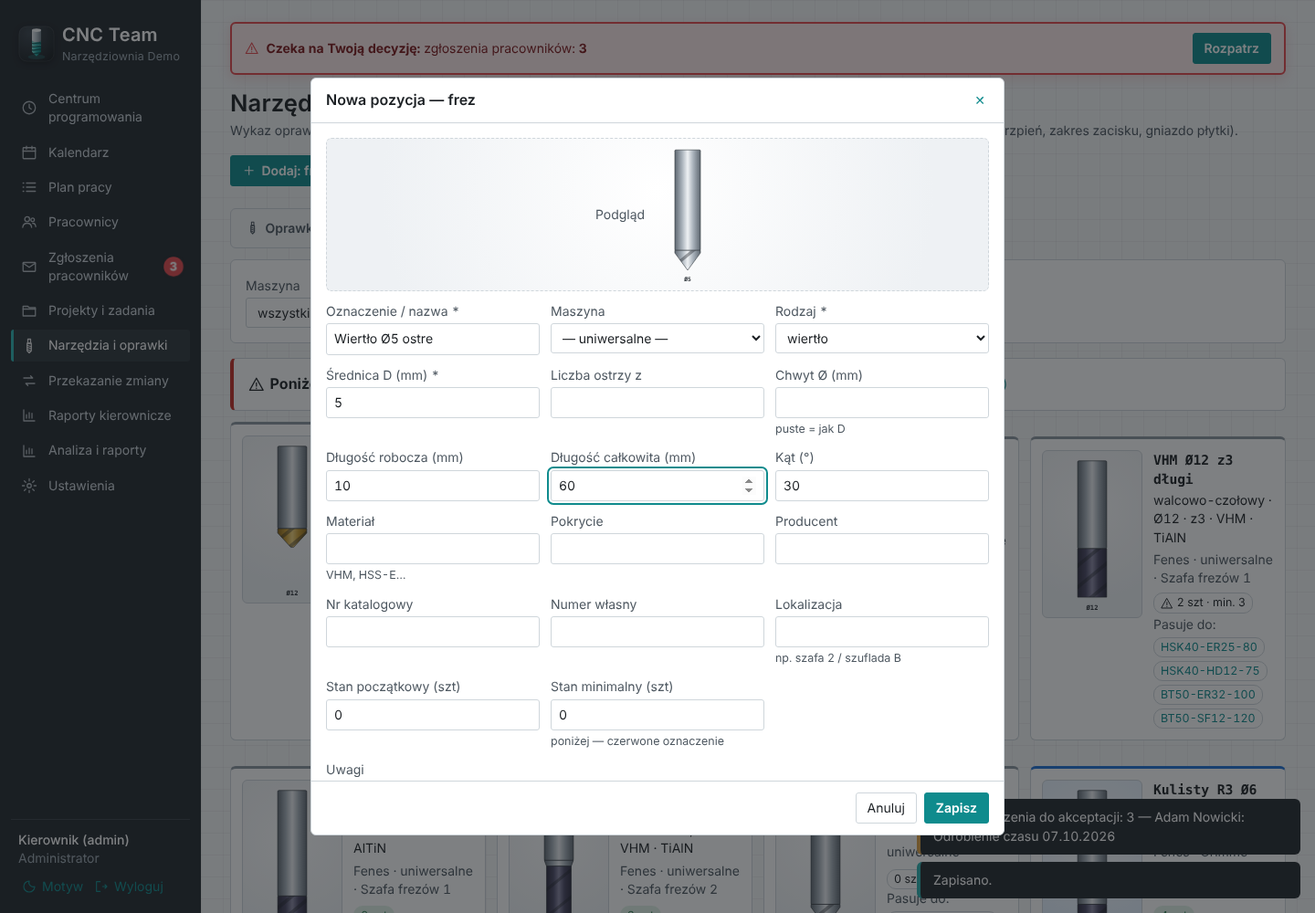
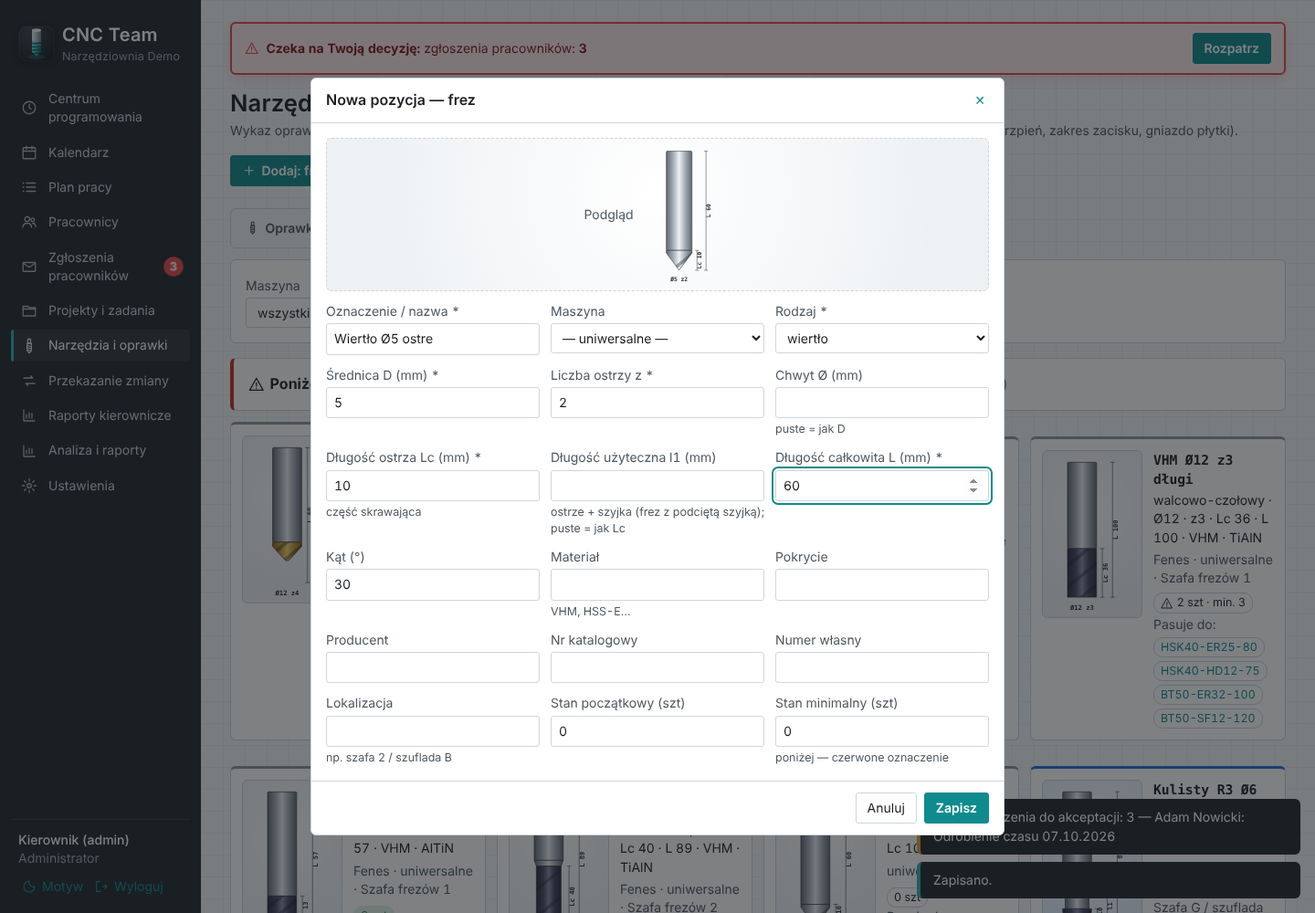
Frezy: liczba ostrzy, długość ostrza i całkowita obowiązkowe, długość z szyjką, wymiary na rysunku (0.15.1)
Claude-Session: https://claude.ai/code/session_01Mgo9RDb6yKEqWF3PSmGbbJ

diff --git a/public/views-tools.js b/public/views-tools.js
@@ -191,12 +191,18 @@ function drawMill(t, { w = 80 } = {}) {
   const D = Number(p.D) || 10, sh = Number(p.shank) || D;
   const k = 40 / Math.max(D, sh);
   const wd = D * k, ws = sh * k, cx = 40;
-  const Ltot = Number(p.L) || D * 6, Lc = Math.min(Number(p.Lc) || D * 2, Ltot * 0.8);
-  const total = 186, lc = Math.max(28, Math.min(total * 0.62, (Lc / Ltot) * total));
-  const yTip = 194, yCut = yTip - lc, yShank = 6;
+  const Ltot = Number(p.L) || D * 6, Lc = Math.min(Number(p.Lc) || Math.min(D * 2, Ltot * 0.3), Ltot * 0.8);
+  const total = 186, sc = total / Ltot;
+  const lc = Math.max(20, Math.min(total * 0.62, Lc * sc));
+  const neck = p.Lc && p.reach && Number(p.reach) > Number(p.Lc) ? // szyjka tylko gdy l1 > rzeczywiste Lc
+    Math.max(6, Math.min(total * 0.8 - lc, (p.reach - Lc) * sc)) : 0;
+  const yTip = 194, yCut = yTip - lc, yNeck = yCut - neck, yShank = yTip - total;
+  const wn = wd * 0.82; // szyjka — podcięta poniżej średnicy ostrza
   const parts = [];
-  parts.push(`<rect x="${cx - ws / 2}" y="${yShank}" width="${ws}" height="${yCut - yShank - (wd !== ws ? 8 : 0)}" rx="1.5" fill="url(#${id}s)" stroke="#2a3036" stroke-width=".8"/>`);
-  if (wd !== ws) parts.push(`<path d="M${cx - ws / 2} ${yCut - 8} L${cx + ws / 2} ${yCut - 8} L${cx + wd / 2} ${yCut} L${cx - wd / 2} ${yCut} Z" fill="url(#${id}s)" stroke="#2a3036" stroke-width=".8"/>`);
+  const topW = neck ? wn : wd;
+  parts.push(`<rect x="${cx - ws / 2}" y="${yShank}" width="${ws}" height="${yNeck - yShank - (topW !== ws ? 8 : 0)}" rx="1.5" fill="url(#${id}s)" stroke="#2a3036" stroke-width=".8"/>`);
+  if (topW !== ws) parts.push(`<path d="M${cx - ws / 2} ${yNeck - 8} L${cx + ws / 2} ${yNeck - 8} L${cx + topW / 2} ${yNeck} L${cx - topW / 2} ${yNeck} Z" fill="url(#${id}s)" stroke="#2a3036" stroke-width=".8"/>`);
+  if (neck) parts.push(`<rect x="${cx - wn / 2}" y="${yNeck}" width="${wn}" height="${neck}" fill="url(#${id}s)" stroke="#2a3036" stroke-width=".8"/>`);
   const r = p.type === 'kulisty' ? wd / 2 : p.type === 'torusowy' ? Math.max(0.5, Math.min(wd / 2 - 0.5, Math.max(1, (Number(p.r) || D * 0.1) * k))) : 0;
   let end;
   const L = cx - wd / 2, R = cx + wd / 2;
@@ -219,10 +225,18 @@ function drawMill(t, { w = 80 } = {}) {
   }
   parts.push(`<g clip-path="url(#${id}c)">${flutes.join('')}</g>`);
   const shankTone = coatTone('');
-  return `<svg class="tool-svg" viewBox="0 0 80 214" width="${w}" role="img" aria-label="${esc(`${MILL_LABEL[p.type] || 'Frez'} Ø${mm(D)}`)}">
+  // linie wymiarowe: Lc (ostrze), l1 (z szyjką), L (całkowita)
+  const dim = (x, y1, y2, label) => `<g class="tool-svg-dimline"><path d="M${x - 3} ${y1} h6 M${x - 3} ${y2} h6 M${x} ${y1} V${y2}" stroke="#2a3036" stroke-width=".7" fill="none"/>
+    <text transform="translate(${x + 7} ${(y1 + y2) / 2}) rotate(-90)" text-anchor="middle" class="tool-svg-dim">${esc(label)}</text></g>`;
+  const dims = [];
+  if (p.Lc) dims.push(dim(68, yCut, yTip, `Lc ${mm(p.Lc)}`));
+  if (neck) dims.push(dim(68 + (p.Lc ? 14 : 0), yNeck, yTip, `l1 ${mm(p.reach)}`));
+  if (p.L) dims.push(dim(68 + (p.Lc ? 14 : 0) + (neck ? 14 : 0), yShank, yTip, `L ${mm(p.L)}`));
+  const vw = 80 + (p.Lc ? 14 : 0) + (neck ? 14 : 0) + (p.L ? 14 : 0);
+  return `<svg class="tool-svg" viewBox="0 0 ${vw} 214" width="${Math.round(w * vw / 80)}" role="img" aria-label="${esc(`${MILL_LABEL[p.type] || 'Frez'} Ø${mm(D)}${p.z ? ` z${mm(p.z)}` : ''}${p.Lc ? `, ostrze ${mm(p.Lc)} mm` : ''}${p.L ? `, długość ${mm(p.L)} mm` : ''}`)}">
     <defs>${metalDefs(`${id}s`, shankTone)}${metalDefs(`${id}k`, coatTone(p.coating))}</defs>
-    ${parts.join('')}
-    <text x="40" y="211" text-anchor="middle" class="tool-svg-dim">Ø${esc(mm(D))}${p.type === 'torusowy' && p.r ? ` R${esc(mm(p.r))}` : p.type === 'kulisty' ? ` R${esc(mm(D / 2))}` : ''}</text>
+    ${parts.join('')}${dims.join('')}
+    <text x="40" y="211" text-anchor="middle" class="tool-svg-dim">Ø${esc(mm(D))}${p.z ? ` z${esc(mm(p.z))}` : ''}${p.type === 'torusowy' && p.r ? ` R${esc(mm(p.r))}` : p.type === 'kulisty' ? ` R${esc(mm(D / 2))}` : ''}</text>
   </svg>`;
 }
 
@@ -241,13 +255,13 @@ function toolFacts(t) {
     add('Tulejka / nakrętka', p.collet); add('Wysięg od czoła wrzeciona', p.gauge, ' mm'); add('Maks. obroty', p.max_rpm != null ? Number(p.max_rpm).toLocaleString('pl-PL') : null, ' obr/min');
   } else if (t.kind === 'glowica') {
     add('Średnica D', p.D, ' mm'); add('Liczba ostrzy z', p.z); add('Gniazdo płytki', p.insert_code);
-    add('Kąt przystawienia', p.lead, '°'); add('Maks. ap', p.ap_max, ' mm'); add('Trzpień', p.arbor != null ? `Ø${mm(p.arbor)}` : null, ' mm'); add('Chwyt walcowy', p.shank != null ? `Ø${mm(p.shank)}` : null, ' mm');
+    add('Kąt przystawienia', p.lead, '°'); add('Maks. ap', p.ap_max, ' mm'); add('Wysokość H', p.H, ' mm'); add('Trzpień', p.arbor != null ? `Ø${mm(p.arbor)}` : null, ' mm'); add('Chwyt walcowy', p.shank != null ? `Ø${mm(p.shank)}` : null, ' mm');
   } else if (t.kind === 'plytka') {
     add('Kształt', SHAPE_LABEL[p.shape] || p.shape); add('Wielkość', p.size, ' mm'); add('Promień naroża', p.radius, ' mm'); add('Liczba krawędzi', p.edges);
     add('Gatunek', p.grade); add('Pokrycie', p.coating); add('Materiały', p.materials);
   } else {
     add('Rodzaj', MILL_LABEL[p.type] || p.type); add('Średnica D', p.D, ' mm'); add('Liczba ostrzy z', p.z); add('Chwyt', p.shank != null ? `Ø${mm(p.shank)}` : null, ' mm');
-    add('Długość robocza', p.Lc, ' mm'); add('Długość całkowita', p.L, ' mm'); add('Promień naroża', p.r, ' mm'); add('Kąt', p.angle, '°');
+    add('Długość ostrza Lc', p.Lc, ' mm'); add('Długość użyteczna l1', p.reach, ' mm'); add('Długość całkowita L', p.L, ' mm'); add('Promień naroża', p.r, ' mm'); add('Kąt', p.angle, '°');
     add('Materiał', p.material); add('Pokrycie', p.coating);
   }
   return f;
@@ -257,7 +271,7 @@ function toolKeyLine(t) {
   if (t.kind === 'oprawka') return [p.interface, HOLDER_LABEL[p.type], p.type === 'trzpieniowa' ? `trzpień Ø${mm(p.arbor)}` : p.clamp_min != null ? `Ø${mm(p.clamp_min)}${p.clamp_max && p.clamp_max !== p.clamp_min ? `–${mm(p.clamp_max)}` : ''}` : null].filter(Boolean).join(' · ');
   if (t.kind === 'glowica') return [`Ø${mm(p.D)}`, `z${mm(p.z)}`, p.insert_code, p.lead && p.lead !== 90 ? `${mm(p.lead)}°` : null].filter(Boolean).join(' · ');
   if (t.kind === 'plytka') return [p.grade, p.coating, p.materials ? `materiały ${p.materials}` : null].filter(Boolean).join(' · ');
-  return [MILL_LABEL[p.type], `Ø${mm(p.D)}`, p.z ? `z${mm(p.z)}` : null, p.material, p.coating].filter(Boolean).join(' · ');
+  return [MILL_LABEL[p.type], `Ø${mm(p.D)}`, p.z ? `z${mm(p.z)}` : null, p.Lc ? `Lc ${mm(p.Lc)}` : null, p.reach ? `l1 ${mm(p.reach)}` : null, p.L ? `L ${mm(p.L)}` : null, p.material, p.coating].filter(Boolean).join(' · ');
 }
 function machineShort(id) {
   const m = S.boot.machines.find(x => x.id === id);
@@ -361,12 +375,11 @@ function toolDetail(t, byId) {
   act('edit', () => toolForm(t.kind, t));
   act('in', () => stockForm(t, 1));
   act('out', () => stockForm(t, -1));
-  act('off', () => confirmReason(`Wycofać z użytku: ${t.name}?`, 'Pozycja zniknie z wykazu dla zespołu (zostaje w historii i w widoku „pokaż wycofane”).', (reason) => post(`/tools/${t.id}`, { ...toolBody(t), active: false, reason }, undefined, 'PUT'), 'Wycofaj'));
-  act('on', () => confirmReason(`Przywrócić do użytku: ${t.name}?`, 'Pozycja wróci do wykazu widocznego dla zespołu.', (reason) => post(`/tools/${t.id}`, { ...toolBody(t), active: true, reason }, undefined, 'PUT'), 'Przywróć'));
+  act('off', () => confirmReason(`Wycofać z użytku: ${t.name}?`, 'Pozycja zniknie z wykazu dla zespołu (zostaje w historii i w widoku „pokaż wycofane”).', (reason) => post(`/tools/${t.id}`, { active: false, reason }, undefined, 'PUT'), 'Wycofaj'));
+  act('on', () => confirmReason(`Przywrócić do użytku: ${t.name}?`, 'Pozycja wróci do wykazu widocznego dla zespołu.', (reason) => post(`/tools/${t.id}`, { active: true, reason }, undefined, 'PUT'), 'Przywróć'));
   dlg.showModal();
 }
 
-const toolBody = (t) => ({ name: t.name, code: t.code, manufacturer: t.manufacturer, catalog_no: t.catalog_no, machine_id: t.machine_id, params: t.params, min_qty: t.min_qty, location: t.location, note: t.note });
 
 function stockForm(t, sign) {
   openForm({
@@ -400,7 +413,7 @@ function toolForm(kind, t = null) {
   } else if (kind === 'glowica') {
     params = [num('D', 'Średnica D (mm)', { required: true }), num('z', 'Liczba ostrzy z', { required: true }),
       txt('insert_code', 'Gniazdo płytki', { help: 'początek oznaczenia płytki, np. APMT1604 — po nim wykaz dobiera płytki' }),
-      num('lead', 'Kąt przystawienia (°)', { help: '90 — prostokątna, 45 — do planowania' }), num('ap_max', 'Maks. ap (mm)'),
+      num('lead', 'Kąt przystawienia (°)', { help: '90 — prostokątna, 45 — do planowania' }), num('ap_max', 'Maks. ap (mm)'), num('H', 'Wysokość głowicy H (mm)'),
       num('arbor', 'Trzpień Ø (mm)', { help: 'głowica nasadzana — dobiera oprawkę trzpieniową' }), num('shank', 'Chwyt walcowy Ø (mm)', { help: 'głowica z chwytem — dobiera oprawkę zaciskową' })];
   } else if (kind === 'plytka') {
     params = [{ name: 'p_shape', label: 'Kształt (ISO)', type: 'select', required: true, value: p.shape || '', options: Object.entries(SHAPE_LABEL) },
@@ -408,8 +421,10 @@ function toolForm(kind, t = null) {
       txt('grade', 'Gatunek'), txt('coating', 'Pokrycie', { help: 'np. TiAlN, TiN, PVD' }), txt('materials', 'Materiały', { help: 'P / M / K / N / S / H' })];
   } else {
     params = [{ name: 'p_type', label: 'Rodzaj', type: 'select', required: true, value: p.type || '', options: Object.entries(MILL_LABEL) },
-      num('D', 'Średnica D (mm)', { required: true }), num('z', 'Liczba ostrzy z'), num('shank', 'Chwyt Ø (mm)', { help: 'puste = jak D' }),
-      num('Lc', 'Długość robocza (mm)'), num('L', 'Długość całkowita (mm)'),
+      num('D', 'Średnica D (mm)', { required: true }), num('z', 'Liczba ostrzy z', { required: true }), num('shank', 'Chwyt Ø (mm)', { help: 'puste = jak D' }),
+      num('Lc', 'Długość ostrza Lc (mm)', { required: true, show: v => v.p_type !== 'fazownik', help: 'część skrawająca' }),
+      num('reach', 'Długość użyteczna l1 (mm)', { show: v => v.p_type !== 'fazownik', help: 'ostrze + szyjka (frez z podciętą szyjką); puste = jak Lc' }),
+      num('L', 'Długość całkowita L (mm)', { required: true }),
       num('r', 'Promień naroża r (mm)', { show: v => v.p_type === 'torusowy' }), num('angle', 'Kąt (°)', { show: v => v.p_type === 'fazownik' || v.p_type === 'wiertlo' }),
       txt('material', 'Materiał', { help: 'VHM, HSS-E…' }), txt('coating', 'Pokrycie')];
   }

diff --git a/test/tools.test.js b/test/tools.test.js
@@ -20,9 +20,9 @@ function world() {
     head25: add('glowica', 'Frez Ø25 chwyt 20', null, { D: 25, z: 3, shank: 20, insert_code: 'APMT 1135' }),
     apmt16: add('plytka', 'APMT1604PDER-M2', null, { shape: 'A', size: 16 }, { qty: 30, min_qty: 20 }),
     apmt11: add('plytka', 'apmt1135pder', null, { shape: 'A', size: 11 }, { qty: 5, min_qty: 20 }),
-    vhm6: add('frez', 'VHM Ø6', null, { type: 'walcowo-czolowy', D: 6 }),
-    ball6h: add('frez', 'Kulisty Ø6 (Hartford)', H, { type: 'kulisty', D: 6, shank: 6 }),
-    big25: add('frez', 'VHM Ø25', null, { type: 'walcowo-czolowy', D: 25 }),
+    vhm6: add('frez', 'VHM Ø6', null, { type: 'walcowo-czolowy', D: 6, z: 4, Lc: 13, L: 57 }),
+    ball6h: add('frez', 'Kulisty Ø6 (Hartford)', H, { type: 'kulisty', D: 6, z: 2, shank: 6, Lc: 10, L: 60 }),
+    big25: add('frez', 'VHM Ø25', null, { type: 'walcowo-czolowy', D: 25, z: 4, Lc: 40, L: 120 }),
   };
   return { ...w, ids };
 }
@@ -50,12 +50,12 @@ test('narzędzia: walidacja parametrów według rodzaju', () => {
   throwsStatus(assert, () => Tools.saveTool(w.db, w.admin, { kind: 'glowica', name: 'x', params: { D: 50 } }), 400, /ostrzy/);
   throwsStatus(assert, () => Tools.saveTool(w.db, w.admin, { kind: 'plytka', name: 'x', params: { shape: 'Q', size: 10 } }), 400);
   throwsStatus(assert, () => Tools.saveTool(w.db, w.admin, { kind: 'frez', name: 'x', params: { type: 'kulisty', D: -2 } }), 400, /Średnica/);
-  throwsStatus(assert, () => Tools.saveTool(w.db, w.admin, { kind: 'frez', name: 'x', machine_id: 'M-NIEMA', params: { type: 'kulisty', D: 6 } }), 400, /maszyna/i);
+  throwsStatus(assert, () => Tools.saveTool(w.db, w.admin, { kind: 'frez', name: 'x', machine_id: 'M-NIEMA', params: { type: 'kulisty', D: 6, z: 2, Lc: 10, L: 60 } }), 400, /maszyna/i);
   // rodzaju nie da się zmienić edycją
   Tools.saveTool(w.db, w.admin, { kind: 'frez', name: 'APMT1604PDER-M2', params: { shape: 'A', size: 16 } }, w.ids.apmt16);
   assert.equal(w.db.get('SELECT kind FROM tools WHERE id=?', w.ids.apmt16).kind, 'plytka');
   // przecinek dziesiętny
-  const id = Tools.saveTool(w.db, w.admin, { kind: 'frez', name: 'Wiertło 8,5', params: { type: 'wiertlo', D: '8,5', angle: 140 } }).id;
+  const id = Tools.saveTool(w.db, w.admin, { kind: 'frez', name: 'Wiertło 8,5', params: { type: 'wiertlo', D: '8,5', angle: 140, z: 2, Lc: '40', L: 89 } }).id;
   assert.equal(JSON.parse(w.db.get('SELECT params FROM tools WHERE id=?', id).params).D, 8.5);
 });
 
@@ -73,11 +73,34 @@ test('narzędzia: edycja częściowa nie kasuje pól; oprawka zgodna z wrzecione
   assert.equal(fitNames(t['Kulisty Ø6 (Hartford)']).includes('HSK-A40 ER16'), false);
   throwsStatus(assert, () => Tools.saveTool(w.db, w.admin, { kind: 'glowica', name: 'x', params: { D: 50, z: 2.5 } }), 400, /całkowita/);
   throwsStatus(assert, () => Tools.saveTool(w.db, w.admin, { active: 'false' }, w.ids.vhm6), 400, /aktywne/);
-  throwsStatus(assert, () => Tools.saveTool(w.db, w.admin, { kind: 'frez', name: 'x', params: { type: 'torusowy', D: 6, r: 4 } }), 400, /połowa/);
+  throwsStatus(assert, () => Tools.saveTool(w.db, w.admin, { kind: 'frez', name: 'x', params: { type: 'torusowy', D: 6, r: 4, z: 4, Lc: 12, L: 57 } }), 400, /połowa/);
   // parametry nieużywane przez wybrany rodzaj nie są zapisywane (np. promień przy frezie walcowo-czołowym)
-  const id = Tools.saveTool(w.db, w.admin, { kind: 'frez', name: 'y', params: { type: 'walcowo-czolowy', D: 6, r: 1, angle: 90 } }).id;
+  const id = Tools.saveTool(w.db, w.admin, { kind: 'frez', name: 'y', params: { type: 'walcowo-czolowy', D: 6, r: 1, angle: 90, z: 4, Lc: 12, L: 57 } }).id;
   const pr = JSON.parse(w.db.get('SELECT params FROM tools WHERE id=?', id).params);
   assert.equal(pr.r, null); assert.equal(pr.angle, null);
+});
+
+test('narzędzia: frez definiują liczba ostrzy, długość ostrza i długość całkowita (obowiązkowe), długość użyteczna z szyjką', () => {
+  const w = world();
+  const f = (params) => () => Tools.saveTool(w.db, w.admin, { kind: 'frez', name: 'F', params: { type: 'walcowo-czolowy', D: 8, ...params } });
+  throwsStatus(assert, f({ Lc: 16, L: 63 }), 400, /ostrzy/);
+  throwsStatus(assert, f({ z: 4, L: 63 }), 400, /Długość ostrza/);
+  throwsStatus(assert, f({ z: 4, Lc: 16 }), 400, /Długość całkowita/);
+  throwsStatus(assert, f({ z: 4, Lc: 70, L: 63 }), 400, /większa niż długość całkowita/);
+  throwsStatus(assert, f({ z: 4, Lc: 16, reach: 12, L: 63 }), 400, /krótsza/);
+  throwsStatus(assert, f({ z: 4, Lc: 16, reach: 70, L: 63 }), 400, /użyteczna nie może być większa/);
+  const id = f({ z: 4, Lc: 16, reach: 40, L: 100 })().id;
+  const pr = JSON.parse(w.db.get('SELECT params FROM tools WHERE id=?', id).params);
+  assert.deepEqual([pr.z, pr.Lc, pr.reach, pr.L], [4, 16, 40, 100]);
+  // pozycja zapisana przed wprowadzeniem obowiązkowych długości: wycofanie / przywrócenie / stan działają bez uzupełniania parametrów
+  const now = new Date().toISOString();
+  const old = Number(w.db.run(`INSERT INTO tools(kind,name,params,qty,min_qty,active,created_at,updated_at) VALUES ('frez','stary','{"type":"walcowo-czolowy","D":6}',1,0,1,?,?)`, now, now).lastInsertRowid);
+  Tools.saveTool(w.db, w.admin, { active: false, reason: 'zużyty' }, old);
+  Tools.saveTool(w.db, w.admin, { active: true, reason: 'pomyłka' }, old);
+  Tools.adjustStock(w.db, w.admin, old, { delta: 1, reason: 'zwrot' });
+  throwsStatus(assert, () => Tools.saveTool(w.db, w.admin, { params: { type: 'walcowo-czolowy', D: 6 } }, old), 400, /ostrzy/);
+  // fazownik — długość ostrza nieobowiązkowa
+  Tools.saveTool(w.db, w.admin, { kind: 'frez', name: 'Faz', params: { type: 'fazownik', D: 10, z: 4, L: 60, angle: 90 } });
 });
 
 test('narzędzia: przyjęcie / wydanie z powodem w historii, stan nie ujemny, wycofanie wymaga powodu', () => {
@@ -128,7 +151,7 @@ test('narzędzia: programista i przełożony tylko odczyt (403 na zapis), gość
     return call;
   };
   try {
-    const newTool = { kind: 'frez', name: 'X', params: { type: 'kulisty', D: 4 } };
+    const newTool = { kind: 'frez', name: 'X', params: { type: 'kulisty', D: 4, z: 2, Lc: 8, L: 50 } };
     for (const login of ['jan', 'szef']) {
       const c = await client(login);
       const r = await c('GET', '/tools?all=1');
@@ -136,7 +159,7 @@ test('narzędzia: programista i przełożony tylko odczyt (403 na zapis), gość
       assert.ok(r.data.length > 5);
       assert.equal(r.data.some(x => x.id === w.ids.big25), false, `${login}: wycofane niewidoczne`);
       assert.equal((await c('POST', '/tools', newTool)).status, 403, login);
-      assert.equal((await c('PUT', `/tools/${w.ids.vhm6}`, { name: 'Y', params: { type: 'kulisty', D: 4 } })).status, 403, login);
+      assert.equal((await c('PUT', `/tools/${w.ids.vhm6}`, { name: 'Y', params: { type: 'kulisty', D: 4, z: 2, Lc: 8, L: 50 } })).status, 403, login);
       assert.equal((await c('POST', `/tools/${w.ids.vhm6}/stock`, { delta: 5, reason: 'x' })).status, 403, login);
     }
     const g = await client('klient');

diff --git a/server/domain/tools.js b/server/domain/tools.js
@@ -37,6 +37,7 @@ function normParams(kind, p = {}) {
     D: num(p.D, 'Średnica D (mm)', { min: 8, max: 400, optional: false }), z: num(p.z, 'Liczba ostrzy z', { min: 1, max: 30, optional: false, int: true }),
     arbor: num(p.arbor, 'Trzpień Ø (mm)', { min: 6, max: 60 }), shank: num(p.shank, 'Chwyt walcowy Ø (mm)', { min: 6, max: 40 }),
     insert_code: txt(p.insert_code, 'Kod gniazda płytki (np. APMT1604)', 20), lead: num(p.lead, 'Kąt przystawienia (°)', { min: 10, max: 95 }), ap_max: num(p.ap_max, 'Maks. ap (mm)', { max: 30 }),
+    H: num(p.H, 'Wysokość głowicy H (mm)', { min: 1, max: 300 }),
   };
   if (kind === 'plytka') return {
     shape: oneOf(p.shape, 'Kształt (ISO)', SHAPES), size: num(p.size, 'Wielkość / długość krawędzi (mm)', { min: 2, max: 40, optional: false }),
@@ -47,9 +48,16 @@ function normParams(kind, p = {}) {
   const D = num(p.D, 'Średnica D (mm)', { min: 0.2, max: 100, optional: false });
   const r = type === 'torusowy' ? num(p.r, 'Promień naroża r (mm)', { max: 50 }) : null; // kulisty: r = D/2 z definicji
   if (r !== null && r > D / 2) throw bad('Promień naroża nie może być większy niż połowa średnicy.');
+  // dane definiujące narzędzie: liczba ostrzy, długość ostrza (części skrawającej) i długość całkowita — obowiązkowe
+  const z = num(p.z, 'Liczba ostrzy z', { min: 1, max: 20, int: true, optional: false });
+  const L = num(p.L, 'Długość całkowita L (mm)', { min: 1, max: 500, optional: false });
+  const Lc = num(p.Lc, 'Długość ostrza Lc (mm)', { min: 0.1, max: 300, optional: type === 'fazownik' });
+  const reach = type === 'fazownik' ? null : num(p.reach, 'Długość użyteczna l1 (mm)', { min: 0.1, max: 500 });
+  if (Lc !== null && Lc > L) throw bad('Długość ostrza nie może być większa niż długość całkowita.');
+  if (reach !== null && reach > L) throw bad('Długość użyteczna nie może być większa niż długość całkowita.');
+  if (reach !== null && Lc !== null && reach < Lc) throw bad('Długość użyteczna (z szyjką) nie może być krótsza niż długość ostrza.');
   return {
-    type, D, z: num(p.z, 'Liczba ostrzy z', { min: 1, max: 20, int: true }), shank: num(p.shank, 'Chwyt Ø (mm)', { min: 1, max: 50 }),
-    Lc: num(p.Lc, 'Długość części roboczej (mm)', { max: 300 }), L: num(p.L, 'Długość całkowita (mm)', { max: 500 }),
+    type, D, z, shank: num(p.shank, 'Chwyt Ø (mm)', { min: 1, max: 50 }), Lc, reach, L,
     r, angle: type === 'fazownik' || type === 'wiertlo' ? num(p.angle, 'Kąt (fazownik / wiertło, °)', { min: 30, max: 180 }) : null,
     material: txt(p.material, 'Materiał (VHM, HSS…)', 20), coating: txt(p.coating, 'Pokrycie', 30),
   };

diff --git a/scripts/seed-lib.js b/scripts/seed-lib.js
@@ -271,7 +271,7 @@ function seedTools(db, admin) {
   add('frez', 'VHM Ø6 z4', null, { type: 'walcowo-czolowy', D: 6, z: 4, shank: 6, Lc: 13, L: 57, material: 'VHM', coating: 'AlTiN' }, { qty: 6, min_qty: 4, manufacturer: 'Fenes', location: 'Szafa frezów 1' });
   add('frez', 'VHM Ø10 z4', null, { type: 'walcowo-czolowy', D: 10, z: 4, shank: 10, Lc: 22, L: 72, material: 'VHM', coating: 'AlTiN' }, { qty: 5, min_qty: 4, manufacturer: 'Fenes', location: 'Szafa frezów 1' });
   add('frez', 'VHM Ø12 z3 długi', null, { type: 'walcowo-czolowy', D: 12, z: 3, shank: 12, Lc: 36, L: 100, material: 'VHM', coating: 'TiAlN' }, { qty: 2, min_qty: 3, manufacturer: 'Fenes', location: 'Szafa frezów 1' });
-  add('frez', 'Kulisty R3 Ø6', G, { type: 'kulisty', D: 6, z: 2, shank: 6, Lc: 10, L: 60, material: 'VHM', coating: 'AlTiN' }, { qty: 4, min_qty: 3, manufacturer: 'Fenes', location: 'Szafa G / szuflada 1' });
+  add('frez', 'Kulisty R3 Ø6 szyjka 30', G, { type: 'kulisty', D: 6, z: 2, shank: 6, Lc: 10, reach: 30, L: 80, material: 'VHM', coating: 'AlTiN' }, { qty: 4, min_qty: 3, manufacturer: 'Fenes', location: 'Szafa G / szuflada 1' });
   add('frez', 'Torusowy Ø10 R1', G, { type: 'torusowy', D: 10, z: 4, shank: 10, Lc: 20, L: 75, r: 1, material: 'VHM', coating: 'AlTiN' }, { qty: 3, min_qty: 2, manufacturer: 'Fenes', location: 'Szafa G / szuflada 1' });
   add('frez', 'Fazownik 90° Ø12', null, { type: 'fazownik', D: 12, z: 4, shank: 12, L: 60, angle: 90, material: 'VHM', coating: 'TiN' }, { qty: 2, min_qty: 1, manufacturer: 'Fenes', location: 'Szafa frezów 2' });
   add('frez', 'Wiertło VHM Ø8,5', null, { type: 'wiertlo', D: 8.5, z: 2, shank: 10, Lc: 40, L: 89, angle: 140, material: 'VHM', coating: 'TiAlN' }, { qty: 3, min_qty: 2, manufacturer: 'Fenes', location: 'Szafa frezów 2' });

diff --git a/public/sw.js b/public/sw.js
@@ -2,7 +2,7 @@
 // Zasada prywatności: w pamięci telefonu przechowywany jest WYŁĄCZNIE szkielet aplikacji (HTML/CSS/JS/ikony).
 // Odpowiedzi API (/api/*) — dane osobowe, absencje, rozliczenia — nigdy nie są buforowane.
 'use strict';
-const VERSION = 'cnc-team-shell-v24';
+const VERSION = 'cnc-team-shell-v25';
 const SHELL = [
   '/', '/index.html', '/tokens.css', '/app.css', '/icons.js', '/brand.js', '/charts.js', '/ui.js', '/app.js', '/views-people.js', '/views-projects.js',
   '/views-reports.js', '/views-requests.js', '/views-analytics.js', '/views-bundles.js', '/views-tools.js', '/views-plan.js', '/pwa.js', '/manifest.webmanifest', '/favicon.svg', '/icons/icon-192.png', '/icons/icon-512.png',

diff --git a/scripts/screenshots-tools.py b/scripts/screenshots-tools.py
@@ -1,4 +1,4 @@
-"""Zrzuty: Narzędzia i oprawki (runda 18). Użycie: python scripts/screenshots-tools.py http://127.0.0.1:3000 docs/screenshots — kod 1 przy błędach."""
+"""Zrzuty: Narzędzia i oprawki (rundy 18–19). Użycie: python scripts/screenshots-tools.py http://127.0.0.1:3000 docs/screenshots — kod 1 przy błędach."""
 import sys
 from playwright.sync_api import sync_playwright
 base, out = sys.argv[1], sys.argv[2]
@@ -27,10 +27,12 @@ with sync_playwright() as p:
     loc = pg.evaluate("fetch('/api/tools').then(r=>r.json()).then(l=>l.find(t=>t.name==='Głowica Ø32 RDMT10'))")
     if loc["location"] != "Szafa G / półka 5" or loc["params"]["insert_code"] != "RDMT10" or loc["params"]["D"] != 32: errors.append("zły zapis: " + str(loc))
     pg.goto(base + "/#/narzedzia?rodzaj=frez"); pg.wait_for_timeout(400); pg.click("#addTool"); pg.wait_for_selector("dialog[open]")
-    pg.fill("dialog[open] input[name=name]", "Wiertło Ø5 ostre"); pg.select_option("dialog[open] select[name=p_type]", "wiertlo"); pg.fill("dialog[open] input[name=p_D]", "5"); pg.fill("dialog[open] input[name=p_angle]", "30"); pg.fill("dialog[open] input[name=p_Lc]", "10"); pg.fill("dialog[open] input[name=p_L]", "60")
+    pg.fill("dialog[open] input[name=name]", "Wiertło Ø5 ostre"); pg.select_option("dialog[open] select[name=p_type]", "wiertlo"); pg.fill("dialog[open] input[name=p_D]", "5"); pg.fill("dialog[open] input[name=p_angle]", "30"); pg.fill("dialog[open] input[name=p_z]", "2"); pg.fill("dialog[open] input[name=p_Lc]", "10"); pg.fill("dialog[open] input[name=p_L]", "60")
     pg.dispatch_event("dialog[open] form", "change"); pg.wait_for_timeout(200); shot(pg, "117-narzedzia-nowy-podglad", full=False)
     pg.click("dialog[open] button[type=submit]"); pg.wait_for_timeout(800)
     if pg.locator("dialog[open]").count(): errors.append("dodanie nie zapisało: " + pg.inner_text("dialog[open] .form-error"))
+    pg.goto(base + "/#/narzedzia?rodzaj=frez&szukaj=szyjka"); pg.wait_for_timeout(500); pg.click(".tl-card .tl-pic >> nth=0"); pg.wait_for_selector("dialog[open]"); shot(pg, "118-narzedzia-frez-wymiary", full=False)
+    pg.click("dialog[open] [data-act=edit]"); pg.wait_for_selector("dialog[open] .tl-preview svg"); shot(pg, "119-narzedzia-frez-formularz", full=False)
     ctx.close()
     ctx, pg = mk(b, True); login(pg, "adam")
     shot(pg, "116-narzedzia-programista-telefon", "#/narzedzia?rodzaj=frez", full=False)

diff --git a/docs/TESTS.md b/docs/TESTS.md
@@ -73,6 +73,9 @@ Zrzuty: `docs/screenshots/50…66` (kierownik, pracownik na komputerze i telefon
 ### Runda 18 — narzędzia i oprawki (12.10.2026)
 **63 / 63 zaliczonych.** Nowy plik `test/tools.test.js` (5 testów): dopasowania z parametrów (trzpień oprawki ↔ głowica, zakres zacisku ↔ chwyt freza lub głowicy, gniazdo głowicy ↔ płytka bez rozróżniania wielkości liter i spacji, brak łączenia narzędzi różnych maszyn), stan poniżej minimum; walidacja według rodzaju (liczby całkowite, promień ≤ D/2, nieznana maszyna, interfejs oprawki zgodny z wrzecionem — BT50 nie do Grimme; bez maszyny przypisanie wg interfejsu); edycja częściowa nie kasuje pól; przyjęcie / wydanie zawsze z powodem, stan nie ujemny; wycofanie i przywrócenie z powodem i osobną akcją w historii; API — programista i przełożony tylko odczyt (403 na zapis), gość 403, wycofane widzi tylko kierownik. Poprawka przy okazji: zakończenie projektu w dniu otwarcia rundy poprawek liczone jest do pierwotnej realizacji (porównanie ze znacznikiem czasu otwarcia rundy); test zwrotów ma teraz ustalone znaczniki czasu. Przegląd niezależny: 9 uwag, wszystkie poprawione. Zrzuty `110`–`117` (w tym zapis edycji i nowej pozycji przez formularz).
 
+### Runda 19 — dane frezu: ostrza i długości (12.10.2026)
+**64 / 64 zaliczonych.** Nowy test: liczba ostrzy z, długość ostrza Lc i długość całkowita L obowiązkowe (Lc nieobowiązkowe dla fazownika), Lc ≤ L, długość użyteczna z szyjką l1 między Lc a L; pozycje zapisane wcześniej bez tych danych można wycofać, przywrócić i zmienić ich stan bez uzupełniania (edycja parametrów wymaga uzupełnienia). Rysunek frezu z linią wymiarową Lc / l1 / L i szyjką. Przegląd niezależny: 6 uwag, poprawione. Zrzuty `118`, `119`.
+
 ## Pokrycie wymaganych scenariuszy
 
 | Wymagany scenariusz | Test (plik → nazwa) |

diff --git a/docs/DATA_MODEL.md b/docs/DATA_MODEL.md
@@ -70,7 +70,7 @@ Saldo wyjścia = minuty − Σ przypisań z **zatwierdzonych** odrabiań. Przypi
 |---|---|
 | `tools` | Pozycja wykazu: rodzaj (`oprawka`, `glowica`, `plytka`, `frez`), oznaczenie, numer własny, producent, nr katalogowy, maszyna (lub uniwersalne), parametry rodzaju (JSON), stan, stan minimalny, lokalizacja, uwagi, aktywna |
 
-Parametry: oprawka — interfejs (zgodny z `machines.tool_holder`), rodzaj (tulejkowa, Weldon, termo, hydrauliczna, trzpieniowa), zakres zacisku albo trzpień, tulejka, wysięg, maks. obroty; głowica — D, z, gniazdo płytki, kąt przystawienia, maks. ap, trzpień lub chwyt; płytka — kształt ISO, wielkość, promień, krawędzie, gatunek, pokrycie, materiały; frez — rodzaj, D, z, chwyt, długości, promień (torusowy), kąt (fazownik / wiertło), materiał, pokrycie. Dopasowania nie są zapisywane — liczone przy odczycie. Zmiany stanu, edycje, wycofanie i przywrócenie — w historii (`audit_log`, encja `tool`) z powodem.
+Parametry: oprawka — interfejs (zgodny z `machines.tool_holder`), rodzaj (tulejkowa, Weldon, termo, hydrauliczna, trzpieniowa), zakres zacisku albo trzpień, tulejka, wysięg, maks. obroty; głowica — D, z, gniazdo płytki, kąt przystawienia, maks. ap, wysokość H, trzpień lub chwyt; płytka — kształt ISO, wielkość, promień, krawędzie, gatunek, pokrycie, materiały; frez — rodzaj, D, **z, długość ostrza Lc, długość całkowita L (obowiązkowe; Lc nie dla fazownika)**, długość użyteczna z szyjką l1, chwyt, promień (torusowy), kąt (fazownik / wiertło), materiał, pokrycie. Dopasowania nie są zapisywane — liczone przy odczycie. Zmiany stanu, edycje, wycofanie i przywrócenie — w historii (`audit_log`, encja `tool`) z powodem.
 
 ## Historia i integralność
 
